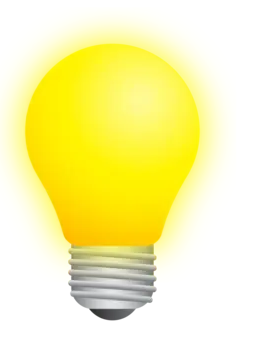
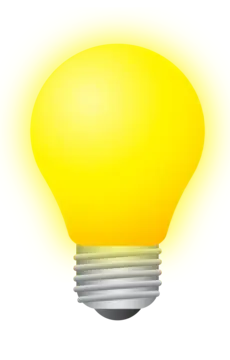
[upd] script (button change, event listener 2 removed, else  if comments), img crop and replacement for visual aid

diff --git a/js/script.js b/js/script.js
@@ -3,12 +3,14 @@ const img = document.getElementById(`lampOff`); // Dichiaro una variabile che ac
 
 button.addEventListener(`click`, function () {
   // Aggiungo un EventListener
+  if (button.innerText === `Accendi`){ // Con If verifico che il testo di button sia 'Accendi' per eseguire le sue modifiche:
   img.src = `./img/yellow_lamp.png`; // Punto a SRC dell'elemento img e lo cambio
   img.alt = `lampOn`; // Punto ad ALT dell'elemento img e lo cambio
-});
-
-button.addEventListener(`click`, function () {
-  if ((img.src = `./img/yellow_lamp.png`)) {
-    button.innerText = `Spegni`;
+  button.innerText = `Spegni`; // Punto al testo di button e lo cambio
   }
+ else if (button.innerText === `Spegni`)  { // Con Else If eseguo una verifica sempre sull testo di button, per eseguire le modifiche che mi riportano allo stato iniziale
+	  button.innerText = `Accendi`;
+      img.src = `./img/white_lamp.png`; 
+      img.alt = `lampOff`; 
+    };
 });
